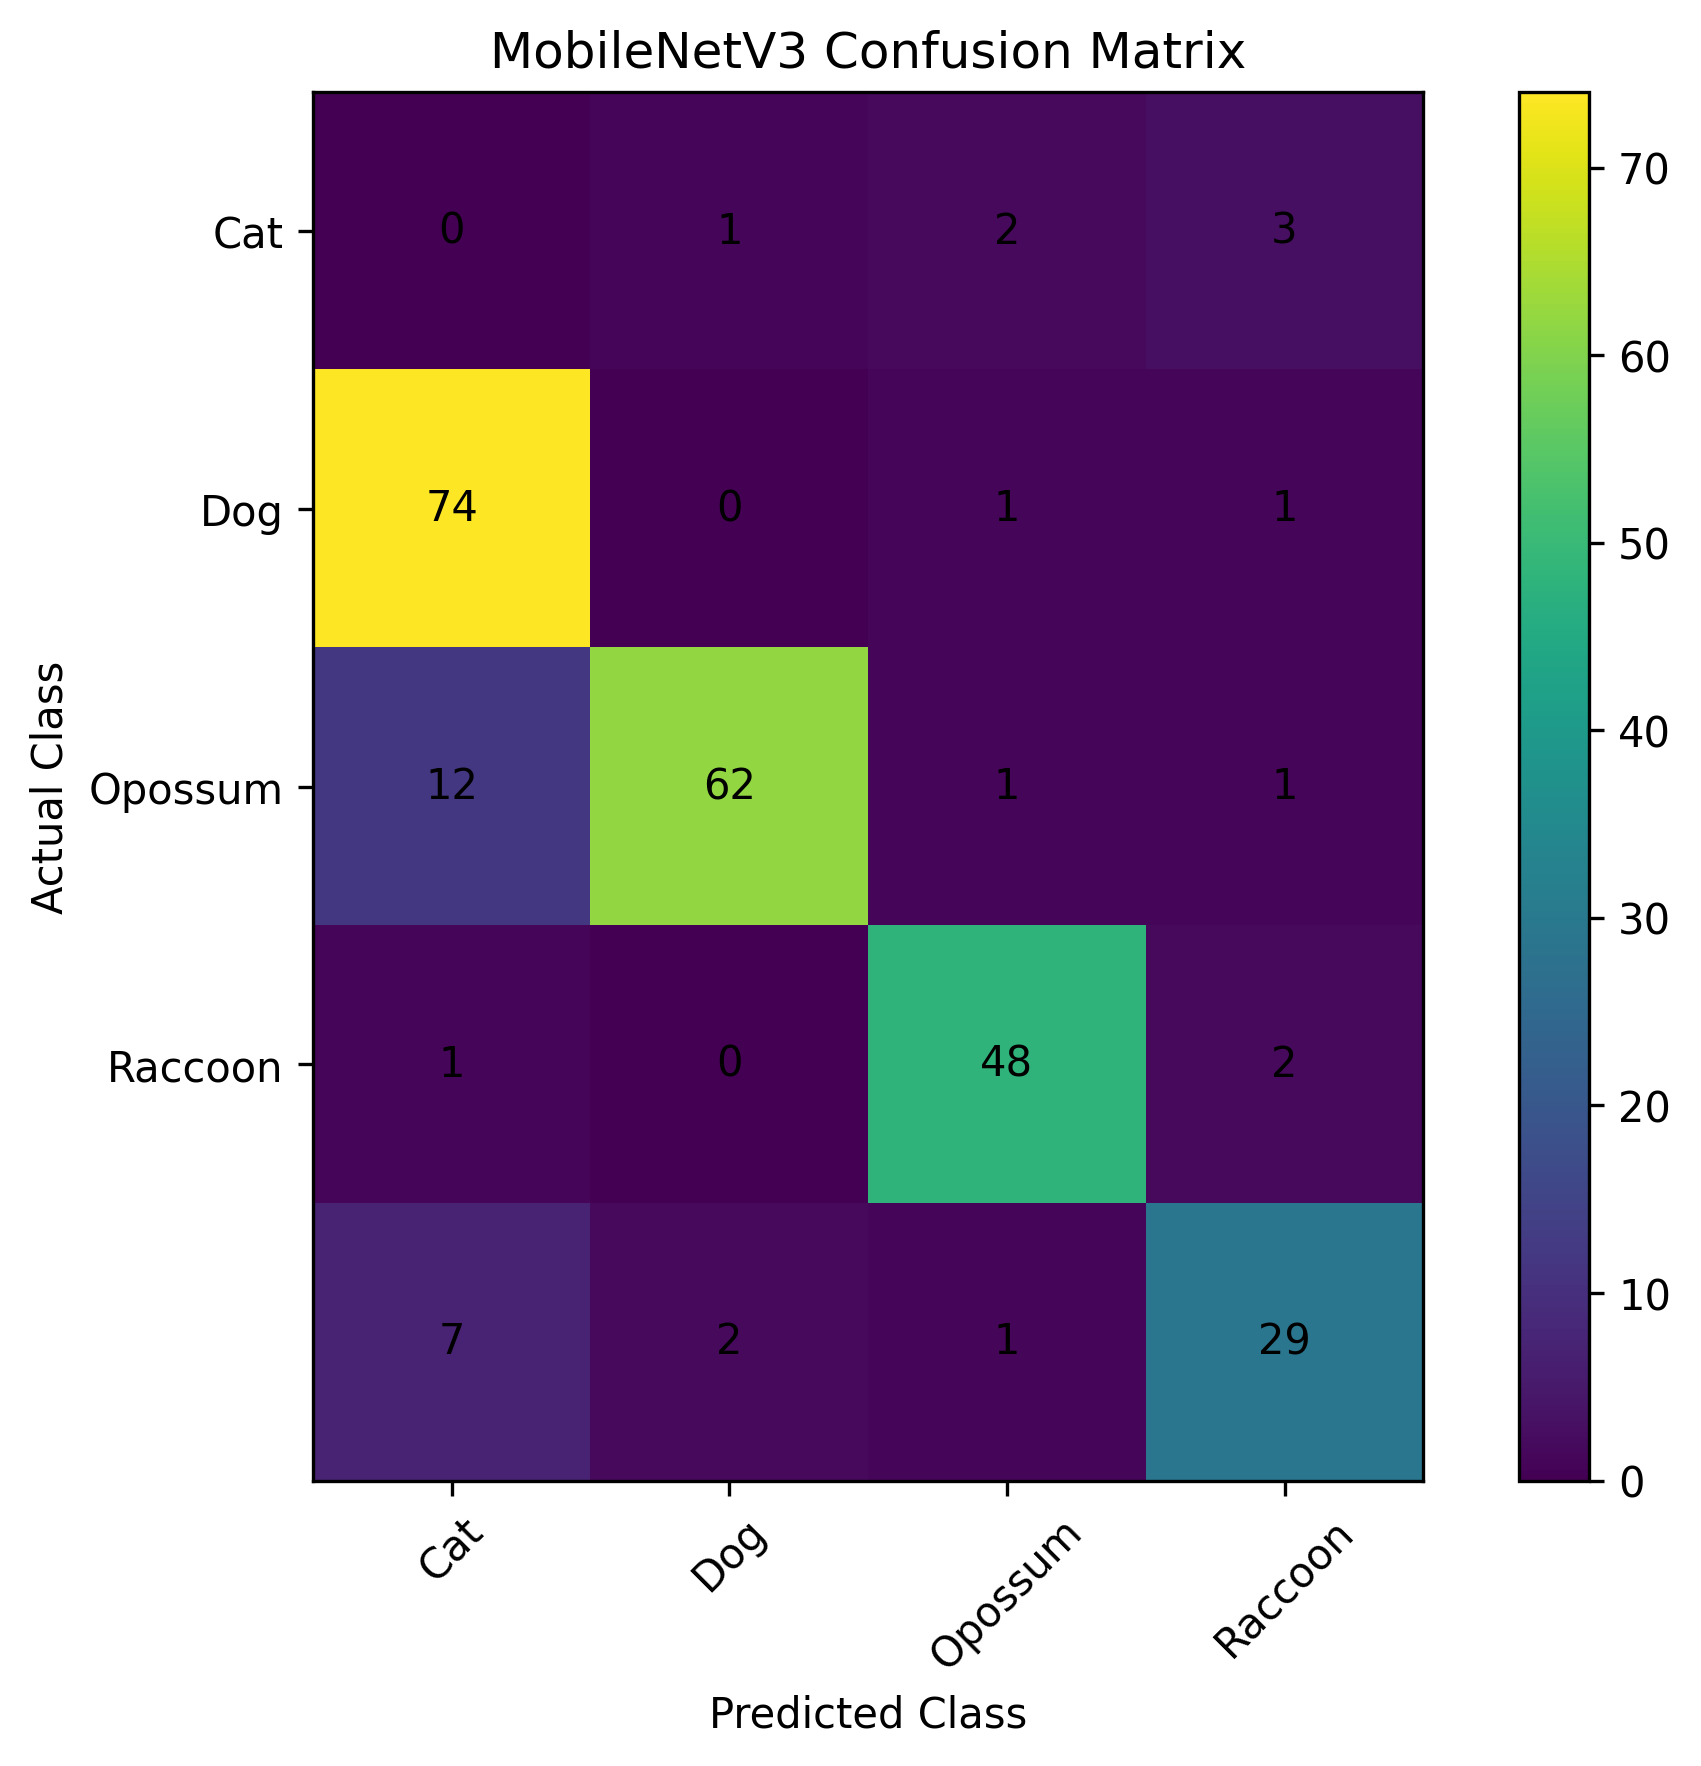
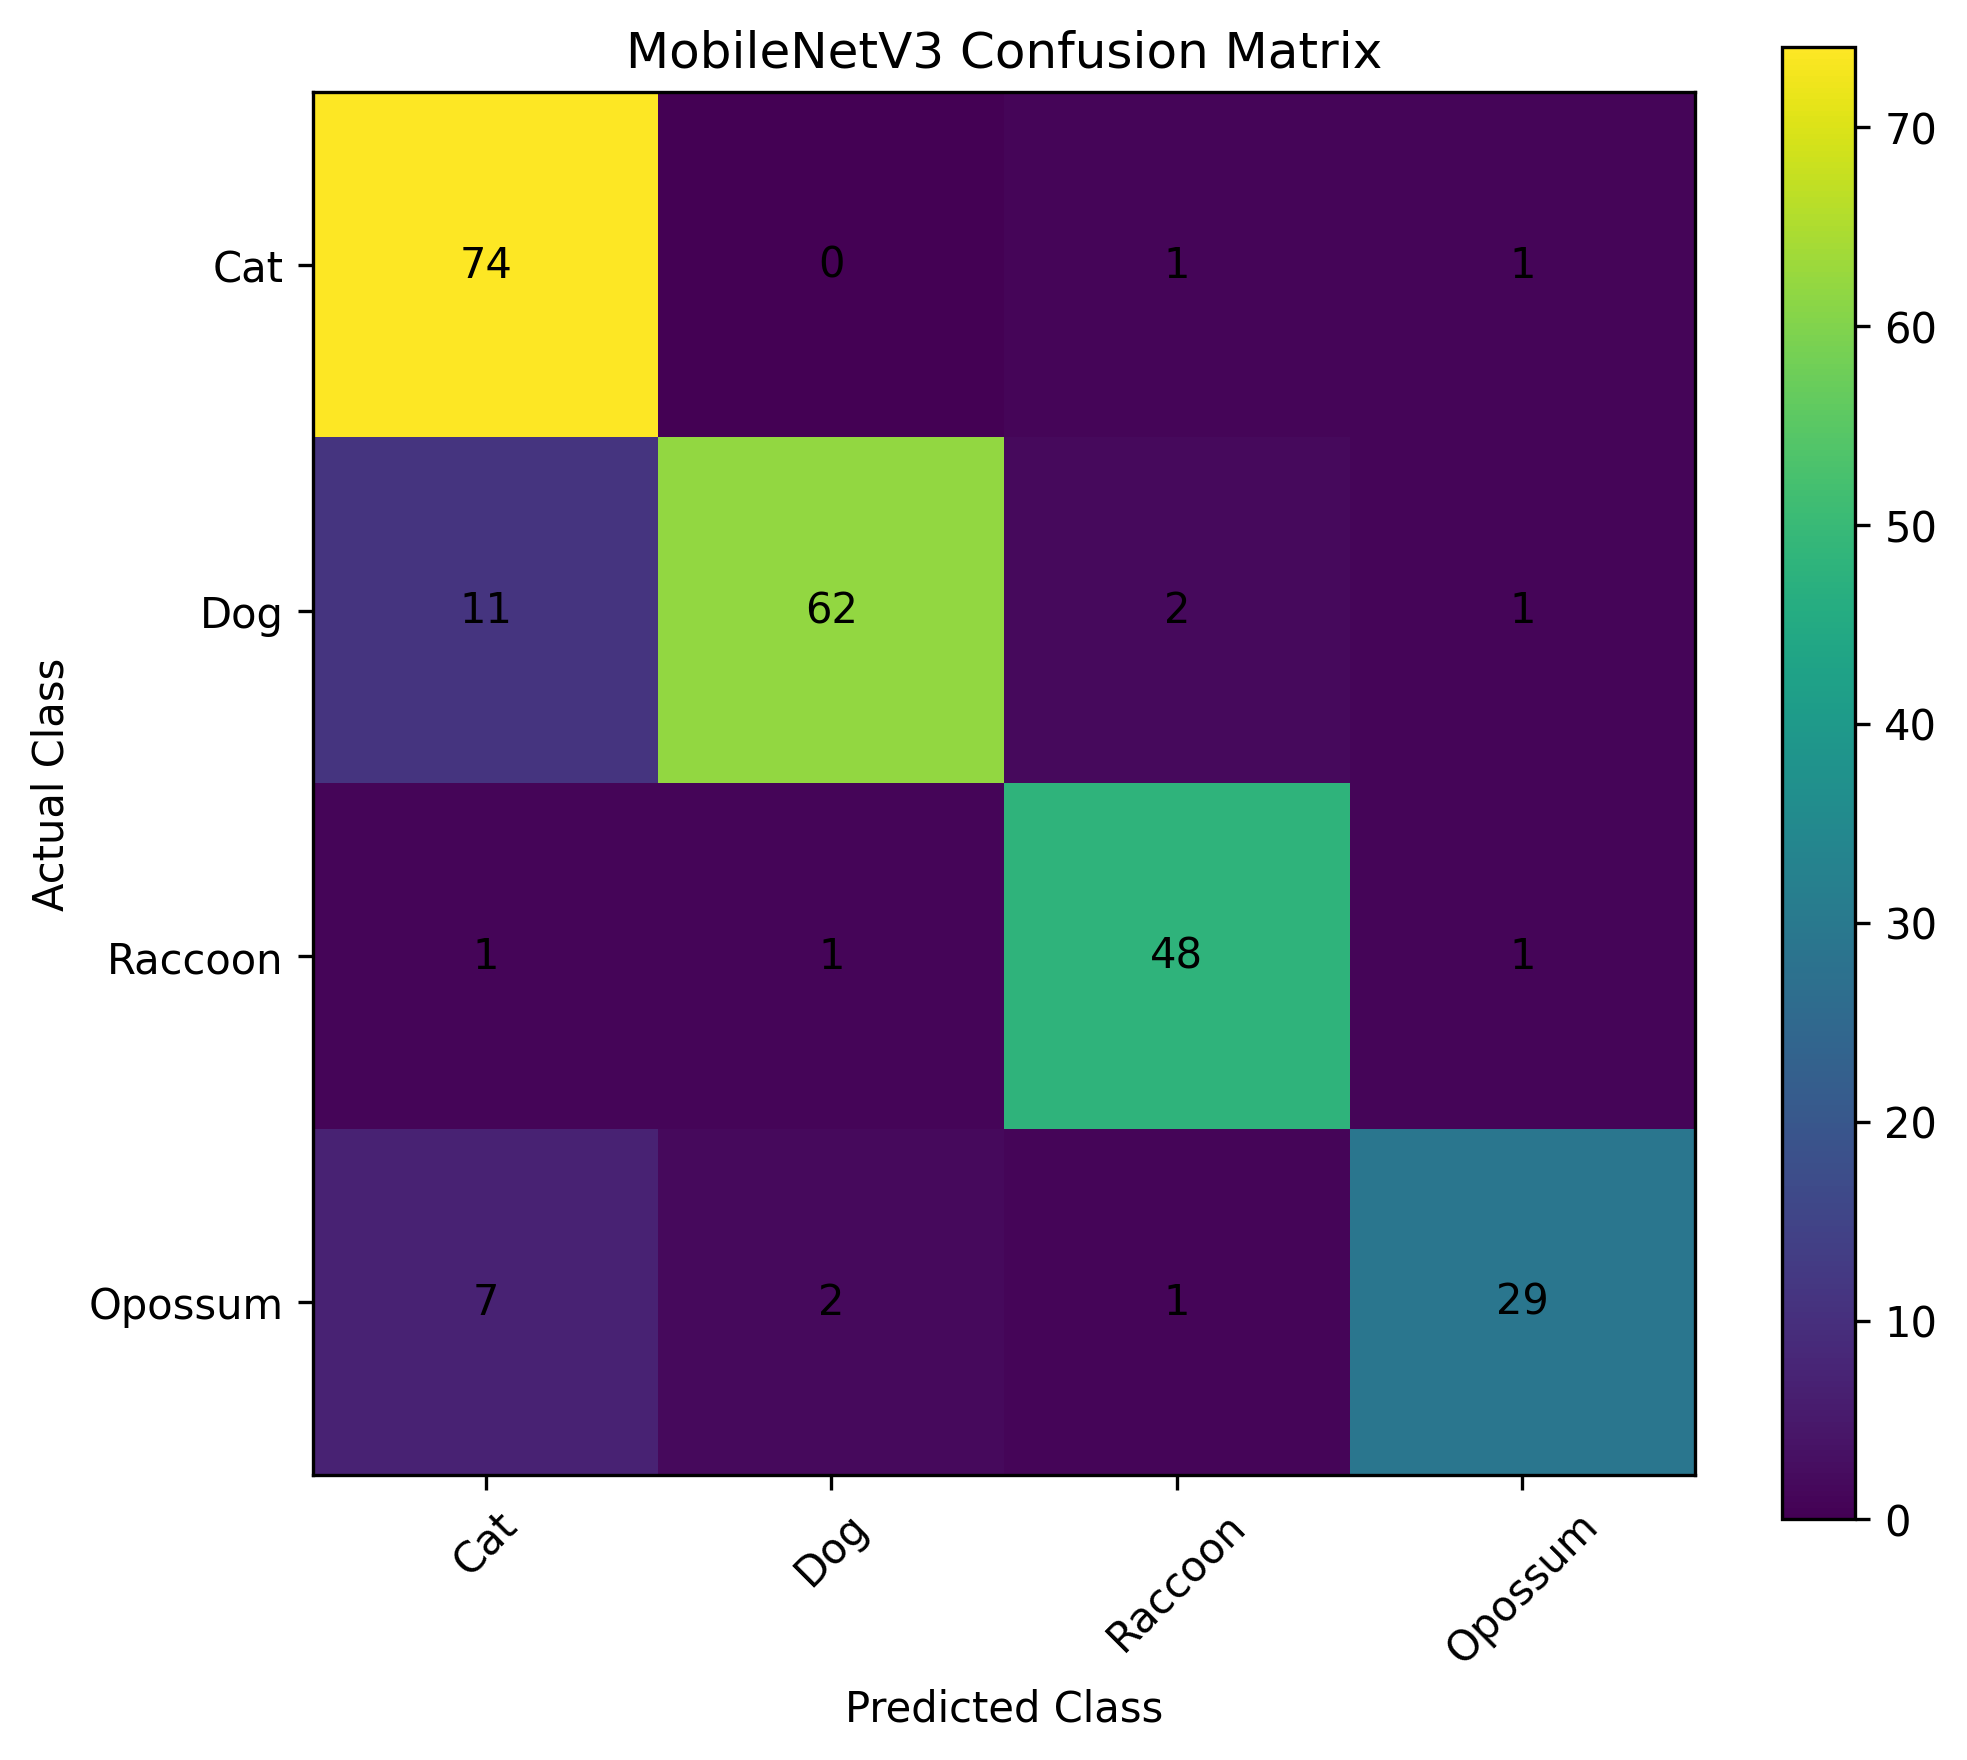
edit confusion matrix scipt and train script for deep model to correctly render confusion matrix and csv

diff --git a/scripts/confusion_matrices.py b/scripts/confusion_matrices.py
@@ -1,22 +1,21 @@
 import pandas as pd
 import matplotlib.pyplot as plt
 
-CLASS_NAMES = [
-    "Cat",
-    "Dog",
-    "Opossum",
-    "Raccoon"
-]
 
 df = pd.read_csv(
     "artifacts/deep/confusion_matrix.csv",
-    header=None
+    index_col=0
 )
+
+CLASS_NAMES = [
+    label.title()
+    for label in df.columns
+]
 
 plt.figure(figsize=(7,6))
 
 plt.imshow(
-    df,
+    df.values,
     interpolation="nearest"
 )
 
@@ -51,13 +50,17 @@ for i in range(df.shape[0]):
         plt.text(
             j,
             i,
-            str(df.iloc[i,j]),
+            str(df.values[i,j]),
             ha="center",
             va="center",
             color="black"
         )
 
 plt.tight_layout()
+
+print(df)
+
+print(df.shape)
 
 plt.savefig(
     "artifacts/deep/confusion_matrix_labeled.png",

diff --git a/scripts/train_deep.py b/scripts/train_deep.py
@@ -193,9 +193,20 @@ def main():
         y_pred,
     )
 
-    pd.DataFrame(cm).to_csv(
-        ARTIFACT_DIR / "confusion_matrix.csv",
-        index=False,
+    CLASS_NAMES = [
+        "cat",
+        "dog",
+        "raccoon",
+        "opossum"
+    ]
+
+    pd.DataFrame(
+        cm,
+        index=CLASS_NAMES,
+        columns=CLASS_NAMES,
+    ).to_csv(
+        ARTIFACT_DIR /
+        "confusion_matrix.csv"
     )
 
 